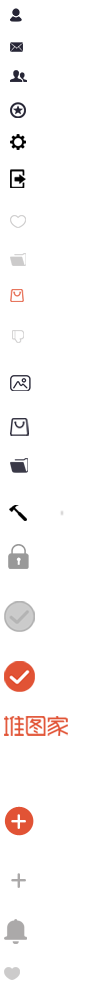
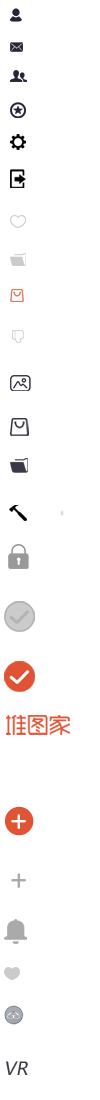
7.13 8

Changed region(s): [[0.03, 0.0, 0.72, 0.992]]

diff --git a/public/web/js/index.js b/public/web/js/index.js
@@ -23,6 +23,10 @@ $(function(){
   }
   //上传图片点击按钮 
   $('.popa').click(function(){
+    if(user_id==''){
+      layer.msg('需要登录',{'icon':5})
+      return
+    }
       $('.pop_uploadfile').show();
       var popconHei = $('.pop_uploadfile .pop_conwrap').height();
       if (popconHei > 410) {
@@ -62,6 +66,10 @@ $(function(){
 
   //添加文件夹
   $('.popc').click(function(){
+    if(user_id==''){
+      layer.msg('需要登录',{'icon':5})
+      return
+    }
     $('.pop_addfold').show()
     var popconHei = $('.pop_addfold .pop_conwrap').height();
       if (popconHei > 410) {
@@ -120,6 +128,10 @@ $(function(){
 
   //上传商品点击按钮 
   $('.popb').click(function(){
+    if(user_id==''){
+      layer.msg('需要登录',{'icon':5})
+      return
+    }
       $('.pop_uploadgoods').show();
       var popconHei = $('.pop_uploadgoods .pop_conwrap').height();
       if (popconHei > 410) {
@@ -257,6 +269,97 @@ $(function(){
       $('form[name=u_b]').submit()
     })
 
+// 上传vr
+ $('.header_more_a5').click(function(){
+    if(user_id==''){
+      layer.msg('需要登录',{'icon':5})
+      return
+    }
+    $.ajax({
+          'beforeSend':function(){
+            layer.load(0, {shade: 0.5});
+          },
+          'url':"/webd/pics/cgoods",
+          'type':'post',
+          'data':{
+            'user_id':user_id
+          },
+          'dataType':'json',
+          'success':function(json){
+            if(json.code==200){
+              $('.pop_uploadvr .pop_labelselect').html('')
+              strs = ''
+              $.each(json.data.folder,function(index,v){
+                strs += '<option value="'+v.id+'">'+v.name+'</option>';
+              })
+              $('.pop_uploadvr .pop_labelselect').append(strs)
+            }else{
+              layer.msg(json.message, {icon: 5});
+              return
+            }
+          },
+          'complete':function(){
+            layer.closeAll('loading');
+          }
+    })
+    $('.pop_uploadvr').show();
+    var poptopHei = $('.pop_uploadvr .pop_con').height();
+    $('.pop_uploadvr .pop_con').css({
+       'margin-top':-(poptopHei/2)
+    })
+    //vr change
+    $("#fvr").on("change",function(){
+        var filePath=$('#fvr').val();
+        if(filePath.indexOf("jpg")!=-1 || filePath.indexOf("png")!=-1 ||filePath.indexOf("JPG")!=-1 || filePath.indexOf("gif")!=-1){
+            var arr=filePath.split('\\');
+            var fileName=arr[arr.length-1];
+            var file = fileName.substring(0,fileName.lastIndexOf('.'))
+            files = getObjectURL(this.files[0]);
+            $('.pop_vrimgwrap img').attr('src',files)
+
+        }else{
+            layer.msg('文件类型不正确', {icon: 5});
+            return false 
+        }
+    })
+    
+    // 保存上传
+    $('form[name=uvr]').submit(function(){
+        uvr = $('form[name=uvr]').serialize()
+        $(this).ajaxSubmit({
+          type:"post",  //提交方式
+          dataType:"json", //数据类型
+          url:"/webd/folder/uvr", //请求url
+          success:function(json){ //提交成功的回调函数
+              if(json.code==200) {
+                layer.msg('成功上传',{icon: 6});
+                setTimeout(function(){
+                  location.reload()
+                },1000)
+              }else{
+                layer.msg(json.message, {icon: 5});
+                return
+              } 
+          },
+          resetForm:1
+        });
+        return false
+    })
+    $('#uvr').click(function(){
+      if($('#fvr').val()==''){
+            layer.msg('没有选择图片', {icon: 5});
+            return
+      }
+      $('form[name=uvr]').submit()
+    })
+      
+  });
+  $('.pop_uploadvr,.pop_close,.pop_uploadvr .detail_pop_cancel').click(function(){
+    $('.pop_uploadvr').hide();
+  })
+  $('.pop_uploadvr .pop_con').click(function(){
+    event.stopPropagation()
+  })
 
 
 

diff --git a/public/web/css/index.css b/public/web/css/index.css
@@ -631,6 +631,9 @@ input[type="checkbox"] + label{cursor: pointer;}
 .pop_editfile .pop_deswrap{width: 426px;float: left;}
 .pop_imgwrap{width: 144px;height: 144px;border-radius: 5px;float: right;margin:17px 30px 0px 0px;}
 .pop_imgwrap img{width: 100%;height: 100%;border-radius: 5px;}
+.pop_vrchangewrap{float: left;margin-top: 33px;}
+.pop_vrimgwrap{width: 144px;height: 144px;border-radius: 5px;margin:0px 15px 0px 0px;float: left;}
+.pop_imgwrap img,.pop_vrimgwrap img{width: 100%;height: 100%;border-radius: 0px;}
 .pop_iptselect{width: 284px;height: 36px;border-radius: 4px;background: #f0f0f0;border:none;padding:0px 15px;font:normal 16px/36px "Microsoft YaHei";color: #a1a1a1;float: left;}
 
 .pop_labelselect{width: 222px;height: 36px;border-radius: 4px;background: #f0f0f0;border:none;padding:0px 15px;font:normal 16px/36px "Microsoft YaHei";color: #a1a1a1;float: left;}
@@ -916,7 +919,31 @@ input[type="checkbox"] + label{cursor: pointer;}
 .tools_other_con{width: 400px;height: 129px;background:url(../images/extend_other.png);margin:32px auto 0px auto;padding-top: 1px;}
 .tools_other_a{width: 340px;height: 60px;display: block;margin:10px 0px 0px 30px;cursor: pointer;}
 .tools_con{padding-bottom: 54px;}
+.w992 .nolog_index_confooter_for{width: 248px;}
 
+.perhome_longacroll_info .perhome_perlike_wrap{width: 694px;margin:0px 0px 0px 165px;}
+.pop_col_alpwrap{position: relative;}
+.pop_uploadvr{background: rgba(0,0,0,.5);width: 100%;min-height: 100%;overflow: auto;position: fixed;top: 0px;left: 0px;bottom: 0px;color: #000;z-index: 10001;display: none;}
+.pop_editvr{background: rgba(0,0,0,.5);width: 100%;min-height: 100%;overflow: auto;position: fixed;top: 0px;left: 0px;bottom: 0px;color: #000;z-index: 10001;display: none;}
+
+.pop_img_vrlogo{width: 111px;height: 113px;background: url(../images/vrlogo.png);position: absolute;top: 50%;margin-top: -57px;left: 50%;margin-left: -56px;}
+
+.index_item_vrlogo{width: 70px;height: 70px;background: url(../images/vrimglogo.png);position: absolute;top: 50%;margin-top: -35px;left: 50%;margin-left: -35px;cursor: pointer;}
+.protocal_headline{font: normal 25px/25px "Microsoft YaHei";color: #000;margin-bottom: 12px;}
+.protocal_subtit{font: normal 21px/21px "Microsoft YaHei";color: #000;margin-bottom: 20px;margin-top: 24px;}
+.protocal_left{width: 30px;float: left;font: normal 16px/20px "Microsoft YaHei";color: #000;}
+.protocal_right{margin-left: 30px;font: normal 16px/20px "Microsoft YaHei";color: #000;}
+
+.pop_addpic_multi{background: rgba(0,0,0,.5);width: 100%;min-height: 100%;overflow: auto;position: fixed;top: 0px;left: 0px;bottom: 0px;color: #000;z-index: 10001;}
+.pop_addpic_multi .pop_con{width: 510px;}
+.pop_addpic_con{float: left;padding-bottom: 16px;}
+.pop_addpic_wrap{width: 78px;height: 78px;border:1px solid #f0f0f0;float: left;margin-left: 13px;cursor: pointer;text-align: center;position: relative;}
+.pop_addpic_wrap:first-child{margin-left: 0px;}
+.detail_pop_tbtn input[type="file"]{width: 102px;height: 34px;opacity: 0;position: absolute;top: 0px;left: 0px;}
+
+.pop_addpic_wrap input[type="file"]{opacity: 0.5;position: absolute;margin-left:0px;position:absolute;top:0px;left:0px;width:77px;height:77px;}
+.pop_addpic_wrap img{margin-left:0px;position:absolute;top:0px;left:0px;width:77px;height:77px;}
+.close_img_btn{width: 15px;height: 15px;position: absolute;top: -7px;right: -7px;background: #f0f0f0;color: #fff;z-index: 200000;border-radius: 50%;line-height: 15px;display: block;text-align: center;}
 
 
 

diff --git a/public/web/css/main.css b/public/web/css/main.css
@@ -80,6 +80,7 @@ body{background: #f0f0f0;padding-top: 1px;min-width: 1244px;}
 .header_more_a2{background: url(../images/dtj_icon.png) 10px -410px no-repeat;}
 .header_more_a3{background: url(../images/dtj_icon.png) 10px -449px no-repeat;}
 .header_more_a4{background: url(../images/dtj_icon.png) 10px -495px no-repeat;}
+.header_more_a5{background: url(../images/dtj_icon.png) 12px -1051px no-repeat;}
 .header_more_a1:hover{background: #f0f0f0 url(../images/dtj_icon.png) 10px -366px no-repeat;}
 .header_more_a2:hover{background: #f0f0f0 url(../images/dtj_icon.png) 10px -410px no-repeat;}
 .header_more_a3:hover{background: #f0f0f0 url(../images/dtj_icon.png) 10px -449px no-repeat;}

diff --git a/resources/views/web/common/daction.blade.php b/resources/views/web/common/daction.blade.php
@@ -22,6 +22,7 @@
 	</div>
 
 	<script type="text/javascript">
+
 		$('form[name=u_a]').submit(function(){
 			ua = $('form[name=u_a]').serialize()
 			$(this).ajaxSubmit({
@@ -64,6 +65,11 @@
 			</div>
 		</div>
 	</div>
+	<script type="text/javascript">
+		$('.pop_uploadgoods .pop_close,.pop_uploadgoods .detail_pop_cancel').click(function(){
+			$(this).parents('.pop_uploadgoods').hide()
+		})
+	</script>
 	<!-- 上传商品详细弹框 -->
 	<div class="pop_goods_upload" style="display:none;">
 	<form action="" method="post" enctype="multipart/form-data" name='u_b'>
@@ -169,6 +175,52 @@
 			</div>
 		</div>
 	</div>
+
+<!-- 上传VR -->
+<div class="pop_uploadvr">
+<form action="" method="post" enctype="multipart/form-data" name="uvr">
+	<div class="pop_con">
+		<p class="pop_tit">
+			上传VR
+			<span class="pop_close"></span>
+		</p>
+		<div class="pop_conwrap">
+			<div class="pop_namewrap clearfix">
+				<span class="pop_labelname">标题</span>
+				<input class="pop_iptname" placeholder="为这个VR场景添加一个名称和描述" name='title' value="">
+			</div>
+			<div class="pop_namewrap clearfix">
+				<span class="pop_labelname">展示图片</span>
+				<div class="pop_vrchangewrap">
+					<div class="pop_vrimgwrap">
+						<img src="{{asset('web')}}/images/temp/1.png">
+					</div>
+					<input type="hidden" name='kind' value="2"></input>
+					<input type="hidden" name='user_id' value="<?php if(!empty($_COOKIE['user_id'])) echo $_COOKIE['user_id']; ?>"></input>
+					<input class="pop_upload" type="file" name='image' id="fvr" style="display:none"></input>
+					<label for="fvr" class="detail_pop_tbtn detail_pop_tbtngrey detail_pop_tbtn_cpadding detail_pop_tbtnright" style="color:#969696;float: left; cursor: pointer; margin-left: 30px">
+								上传VR展示图</label>
+				</div>
+			</div>
+			<div class="pop_namewrap clearfix">
+				<span class="pop_labelname">地址</span>
+				<input class="pop_iptname" placeholder="粘贴这个VR场景的链接地址" name='detail_url' value="">
+			</div>
+			<div class="pop_namewrap clearfix">
+				<span class="pop_labelname">文件夹</span>
+				<select class="pop_labelselect" style="margin-right: 15px;width:255px;" name='fid'>
+					
+				</select>
+			</div>
+		</div>
+		
+		<div class="pop_btnwrap">
+			<a href="javascript:;" class="pop_buildbtn detail_filebtn detail_fileball detail_pop_cancel">取消</a>
+			<a href="javascript:;" class="pop_buildbtn detail_filebtn detail_filebtn_cpadding" id="uvr">上传</a>
+		</div>
+	</div>
+</form>
+</div>
 <script type="text/javascript">
 	 $('#pop_iptpr_s').click(function(){
         if($(this).attr('private') == 1){

diff --git a/app/Http/Controllers/Web/FolderController.php b/app/Http/Controllers/Web/FolderController.php
@@ -258,6 +258,53 @@ class FolderController extends CmController{
             return response()->forApi(array(), 1001, '发布失败！');
         }
     }
+    //上传vr
+    public function postUvr(){
+        $data = Input::all();
+        $rules = array(
+            'user_id' => 'required',
+            'kind' => 'required|in:1,2',
+            'fid' => 'required|exists:folders,id',
+            'category_id' => 'exists:categories,id',
+            // 'image' => 'required',
+            'source' => 'in:0,1',
+            'title'=>'required',
+            "detail_url"=>'required'
+        );
+        $messages = [
+            'title.required'=>'标题没有填写',
+            'detail_url.required'=>'地址没有填写'
+        ];
+        //请求参数验证
+        parent::validator($data, $rules,$messages);
+        if(empty($_FILES['image'])) return response()->forApi(array(), 1001, '没有选择图片');
+        $userId = self::get_user_cache($data['user_id']);
+        $user = DB::table('users')->where('id',$userId)->first();
+        if(empty($user)) return response()->forApi([],1001,'不存在的用户');
+        $rulesImage = $file = array();
+        if (is_array($data['image']) && !empty($data['image'])) {
+            foreach ($data['image'] as $k => $v) {
+                $rulesImage[$k] = 'image';
+            }
+            parent::validator($data['image'], $rulesImage);
+        }
+        if (isset($data['folder_id'])) {
+            $row = Folder::find($data['folder_id']);
+            if (empty($row) || $userId !=$row->user_id){
+                return response()->forApi(array(), 1001, '请选择正确文件夹！');
+            }
+        }
+        //用户发布，先发后审
+        $data['status'] = 1;
+        $data['folder_id'] = $data['fid'];
+        $data['description'] = $data['title'];
+        $id = ProductService::getInstance()->addProduct ($userId,$data,$_FILES);
+        if ($id) {
+            return response()->forApi(['id' => $id]);
+        }else{
+            return response()->forApi(array(), 1001, '发布失败！');
+        }
+    }
 
     //删除文件夹的文件
     public function postDelpfolder(){

diff --git a/resources/views/web/pics/show.blade.php b/resources/views/web/pics/show.blade.php
@@ -88,7 +88,11 @@
 						<?php if(!empty($goods['detail_url'])): ?>
 							<div class="detail_pop_from">
 								来自 <a href="{{$goods['detail_url']}}" class="detail_pop_fromurl" target="_blank"><?php echo mb_substr($goods['detail_url'], 0,50,'utf-8'); ?></a>
+								<?php if($goods['kind']==1){ ?>
 									<a href="{{$goods['detail_url']}}" target="_blank" style="float: right;" class="detail_pop_tbtn detail_pop_tbtngrey detail_pop_tbtntobuy detail_pop_tbtn_cpadding">去购买</a>
+								<?php }elseif($goods['kind']==2){ ?>
+									<a href="{{$goods['detail_url']}}" target="_blank" style="float: right;" class="detail_pop_tbtn detail_pop_tbtngrey detail_pop_tbtn_cpadding">查看VR</a>
+								<?php } ?>
 								<!-- <a href="javascript:;" class="detail_pop_fromwarn"></a> -->
 								<!-- <a href="javascript:;" class="detail_pop_fromedit"></a> -->
 							</div>

diff --git a/resources/views/web/common/banner/action.blade.php b/resources/views/web/common/banner/action.blade.php
@@ -3,6 +3,7 @@
     <div class="header_add_item_awrap">
       <a href="javascript:;" onclick="layer_error();" target="_blank" class="header_add_item_a header_more_a1 ">上传图片</a>
       <a href="javascript:;" target="_blank" class="header_add_item_a header_more_a2 popb">上传商品</a>
+      <a href="javascript:;" target="_blank" class="header_add_item_a header_more_a5">上传VR</a>
       <a href="javascript:;" target="_blank" class="header_add_item_a header_more_a3 popc">添加文件夹</a>
       <!-- <a href="tools.html" target="_blank" class="header_add_item_a header_more_a4">安装堆工具</a> -->
     </div>  

diff --git a/resources/views/index.blade.php b/resources/views/index.blade.php
@@ -629,5 +629,4 @@ var _hmt = _hmt || [];
 @include('web.common.login',['index'=>1])
 </body>
 <script type="text/javascript" src="{{asset('static/layer/layer.js')}}"></script>
-<script type="text/javascript" src="{{asset('web/js/register.js')}}"></script>
 </html>
